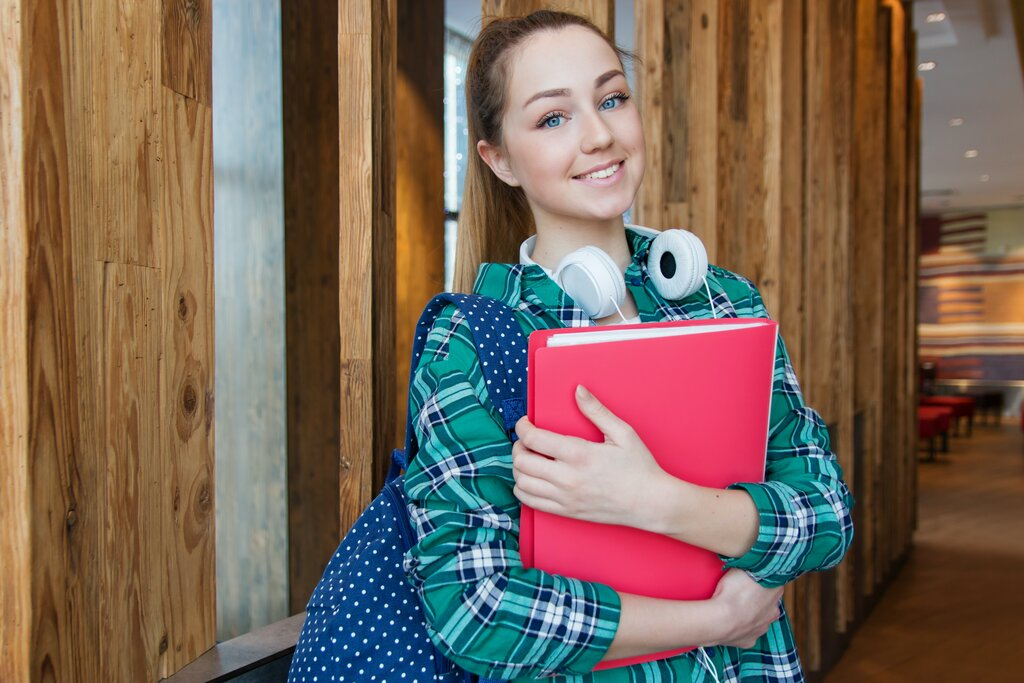
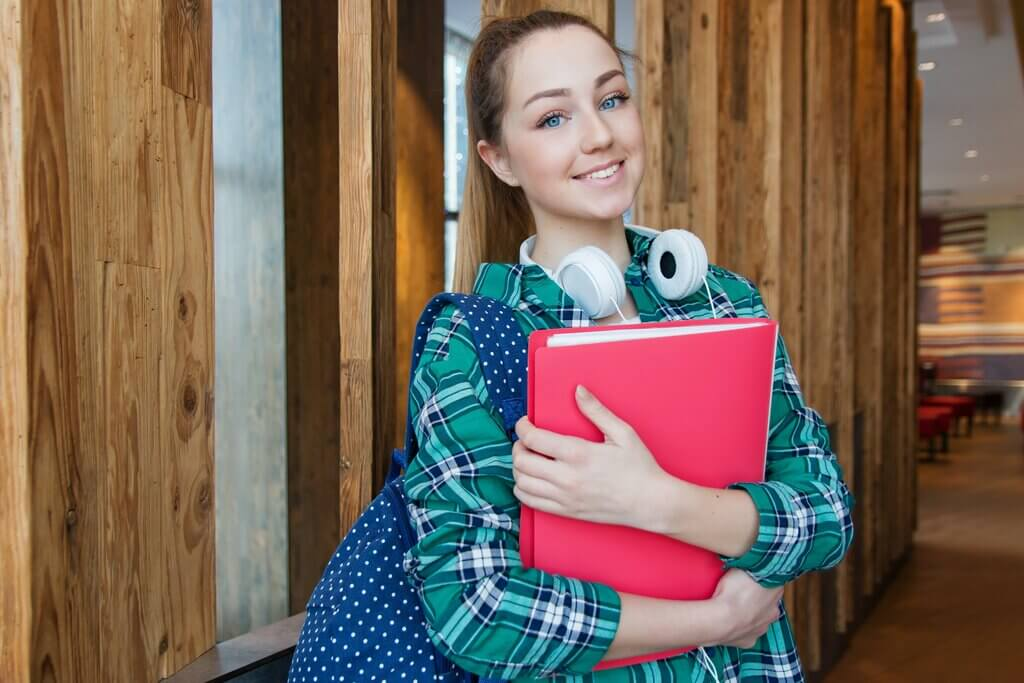
web image optimaize

diff --git a/style.css b/style.css
@@ -32,9 +32,6 @@ html{
 .row:after {
     clear:both;
 }
-.row {
-    zoom:1; /* For IE 6/7 (trigger hasLayout) */
-}
 
 /*  GRID COLUMN SETUP   ==================================================================== */
 
@@ -161,7 +158,7 @@ header {
     padding-top: 2rem;
     height: 5rem;
     height: 5rem;
-    list-style: 5rem;
+    list-style: none;
 }
 /* Full Screen navigation menu start*/
 .overlay a {
